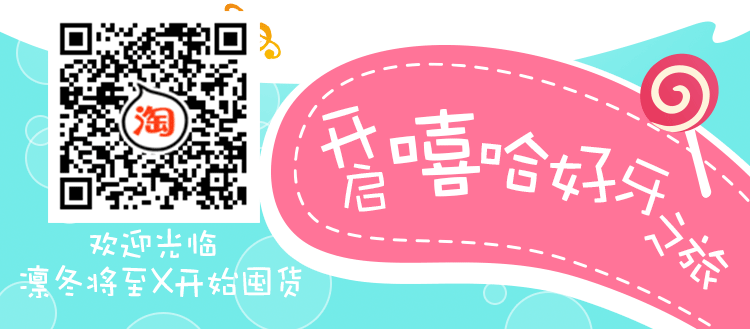
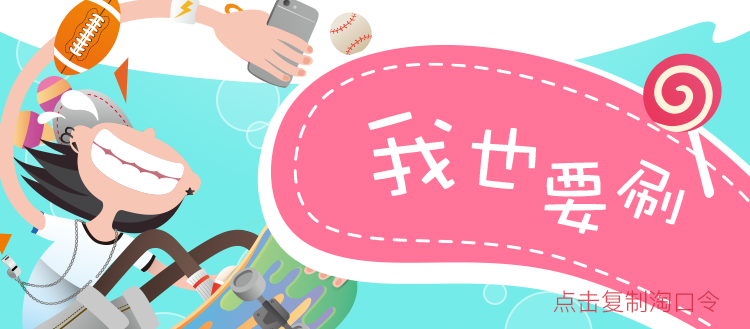
fix: 增加淘口令

diff --git a/src/shuke_activity/lib/clipboard.min.js b/src/shuke_activity/lib/clipboard.min.js
@@ -1,0 +1,7 @@
+/*!
+ * clipboard.js v1.7.1
+ * https://zenorocha.github.io/clipboard.js
+ *
+ * Licensed MIT © Zeno Rocha
+ */
+!function(t){if("object"==typeof exports&&"undefined"!=typeof module)module.exports=t();else if("function"==typeof define&&define.amd)define([],t);else{var e;e="undefined"!=typeof window?window:"undefined"!=typeof global?global:"undefined"!=typeof self?self:this,e.Clipboard=t()}}(function(){var t,e,n;return function t(e,n,o){function i(a,c){if(!n[a]){if(!e[a]){var l="function"==typeof require&&require;if(!c&&l)return l(a,!0);if(r)return r(a,!0);var s=new Error("Cannot find module '"+a+"'");throw s.code="MODULE_NOT_FOUND",s}var u=n[a]={exports:{}};e[a][0].call(u.exports,function(t){var n=e[a][1][t];return i(n||t)},u,u.exports,t,e,n,o)}return n[a].exports}for(var r="function"==typeof require&&require,a=0;a<o.length;a++)i(o[a]);return i}({1:[function(t,e,n){function o(t,e){for(;t&&t.nodeType!==i;){if("function"==typeof t.matches&&t.matches(e))return t;t=t.parentNode}}var i=9;if("undefined"!=typeof Element&&!Element.prototype.matches){var r=Element.prototype;r.matches=r.matchesSelector||r.mozMatchesSelector||r.msMatchesSelector||r.oMatchesSelector||r.webkitMatchesSelector}e.exports=o},{}],2:[function(t,e,n){function o(t,e,n,o,r){var a=i.apply(this,arguments);return t.addEventListener(n,a,r),{destroy:function(){t.removeEventListener(n,a,r)}}}function i(t,e,n,o){return function(n){n.delegateTarget=r(n.target,e),n.delegateTarget&&o.call(t,n)}}var r=t("./closest");e.exports=o},{"./closest":1}],3:[function(t,e,n){n.node=function(t){return void 0!==t&&t instanceof HTMLElement&&1===t.nodeType},n.nodeList=function(t){var e=Object.prototype.toString.call(t);return void 0!==t&&("[object NodeList]"===e||"[object HTMLCollection]"===e)&&"length"in t&&(0===t.length||n.node(t[0]))},n.string=function(t){return"string"==typeof t||t instanceof String},n.fn=function(t){return"[object Function]"===Object.prototype.toString.call(t)}},{}],4:[function(t,e,n){function o(t,e,n){if(!t&&!e&&!n)throw new Error("Missing required arguments");if(!c.string(e))throw new TypeError("Second argument must be a String");if(!c.fn(n))throw new TypeError("Third argument must be a Function");if(c.node(t))return i(t,e,n);if(c.nodeList(t))return r(t,e,n);if(c.string(t))return a(t,e,n);throw new TypeError("First argument must be a String, HTMLElement, HTMLCollection, or NodeList")}function i(t,e,n){return t.addEventListener(e,n),{destroy:function(){t.removeEventListener(e,n)}}}function r(t,e,n){return Array.prototype.forEach.call(t,function(t){t.addEventListener(e,n)}),{destroy:function(){Array.prototype.forEach.call(t,function(t){t.removeEventListener(e,n)})}}}function a(t,e,n){return l(document.body,t,e,n)}var c=t("./is"),l=t("delegate");e.exports=o},{"./is":3,delegate:2}],5:[function(t,e,n){function o(t){var e;if("SELECT"===t.nodeName)t.focus(),e=t.value;else if("INPUT"===t.nodeName||"TEXTAREA"===t.nodeName){var n=t.hasAttribute("readonly");n||t.setAttribute("readonly",""),t.select(),t.setSelectionRange(0,t.value.length),n||t.removeAttribute("readonly"),e=t.value}else{t.hasAttribute("contenteditable")&&t.focus();var o=window.getSelection(),i=document.createRange();i.selectNodeContents(t),o.removeAllRanges(),o.addRange(i),e=o.toString()}return e}e.exports=o},{}],6:[function(t,e,n){function o(){}o.prototype={on:function(t,e,n){var o=this.e||(this.e={});return(o[t]||(o[t]=[])).push({fn:e,ctx:n}),this},once:function(t,e,n){function o(){i.off(t,o),e.apply(n,arguments)}var i=this;return o._=e,this.on(t,o,n)},emit:function(t){var e=[].slice.call(arguments,1),n=((this.e||(this.e={}))[t]||[]).slice(),o=0,i=n.length;for(o;o<i;o++)n[o].fn.apply(n[o].ctx,e);return this},off:function(t,e){var n=this.e||(this.e={}),o=n[t],i=[];if(o&&e)for(var r=0,a=o.length;r<a;r++)o[r].fn!==e&&o[r].fn._!==e&&i.push(o[r]);return i.length?n[t]=i:delete n[t],this}},e.exports=o},{}],7:[function(e,n,o){!function(i,r){if("function"==typeof t&&t.amd)t(["module","select"],r);else if(void 0!==o)r(n,e("select"));else{var a={exports:{}};r(a,i.select),i.clipboardAction=a.exports}}(this,function(t,e){"use strict";function n(t){return t&&t.__esModule?t:{default:t}}function o(t,e){if(!(t instanceof e))throw new TypeError("Cannot call a class as a function")}var i=n(e),r="function"==typeof Symbol&&"symbol"==typeof Symbol.iterator?function(t){return typeof t}:function(t){return t&&"function"==typeof Symbol&&t.constructor===Symbol&&t!==Symbol.prototype?"symbol":typeof t},a=function(){function t(t,e){for(var n=0;n<e.length;n++){var o=e[n];o.enumerable=o.enumerable||!1,o.configurable=!0,"value"in o&&(o.writable=!0),Object.defineProperty(t,o.key,o)}}return function(e,n,o){return n&&t(e.prototype,n),o&&t(e,o),e}}(),c=function(){function t(e){o(this,t),this.resolveOptions(e),this.initSelection()}return a(t,[{key:"resolveOptions",value:function t(){var e=arguments.length>0&&void 0!==arguments[0]?arguments[0]:{};this.action=e.action,this.container=e.container,this.emitter=e.emitter,this.target=e.target,this.text=e.text,this.trigger=e.trigger,this.selectedText=""}},{key:"initSelection",value:function t(){this.text?this.selectFake():this.target&&this.selectTarget()}},{key:"selectFake",value:function t(){var e=this,n="rtl"==document.documentElement.getAttribute("dir");this.removeFake(),this.fakeHandlerCallback=function(){return e.removeFake()},this.fakeHandler=this.container.addEventListener("click",this.fakeHandlerCallback)||!0,this.fakeElem=document.createElement("textarea"),this.fakeElem.style.fontSize="12pt",this.fakeElem.style.border="0",this.fakeElem.style.padding="0",this.fakeElem.style.margin="0",this.fakeElem.style.position="absolute",this.fakeElem.style[n?"right":"left"]="-9999px";var o=window.pageYOffset||document.documentElement.scrollTop;this.fakeElem.style.top=o+"px",this.fakeElem.setAttribute("readonly",""),this.fakeElem.value=this.text,this.container.appendChild(this.fakeElem),this.selectedText=(0,i.default)(this.fakeElem),this.copyText()}},{key:"removeFake",value:function t(){this.fakeHandler&&(this.container.removeEventListener("click",this.fakeHandlerCallback),this.fakeHandler=null,this.fakeHandlerCallback=null),this.fakeElem&&(this.container.removeChild(this.fakeElem),this.fakeElem=null)}},{key:"selectTarget",value:function t(){this.selectedText=(0,i.default)(this.target),this.copyText()}},{key:"copyText",value:function t(){var e=void 0;try{e=document.execCommand(this.action)}catch(t){e=!1}this.handleResult(e)}},{key:"handleResult",value:function t(e){this.emitter.emit(e?"success":"error",{action:this.action,text:this.selectedText,trigger:this.trigger,clearSelection:this.clearSelection.bind(this)})}},{key:"clearSelection",value:function t(){this.trigger&&this.trigger.focus(),window.getSelection().removeAllRanges()}},{key:"destroy",value:function t(){this.removeFake()}},{key:"action",set:function t(){var e=arguments.length>0&&void 0!==arguments[0]?arguments[0]:"copy";if(this._action=e,"copy"!==this._action&&"cut"!==this._action)throw new Error('Invalid "action" value, use either "copy" or "cut"')},get:function t(){return this._action}},{key:"target",set:function t(e){if(void 0!==e){if(!e||"object"!==(void 0===e?"undefined":r(e))||1!==e.nodeType)throw new Error('Invalid "target" value, use a valid Element');if("copy"===this.action&&e.hasAttribute("disabled"))throw new Error('Invalid "target" attribute. Please use "readonly" instead of "disabled" attribute');if("cut"===this.action&&(e.hasAttribute("readonly")||e.hasAttribute("disabled")))throw new Error('Invalid "target" attribute. You can\'t cut text from elements with "readonly" or "disabled" attributes');this._target=e}},get:function t(){return this._target}}]),t}();t.exports=c})},{select:5}],8:[function(e,n,o){!function(i,r){if("function"==typeof t&&t.amd)t(["module","./clipboard-action","tiny-emitter","good-listener"],r);else if(void 0!==o)r(n,e("./clipboard-action"),e("tiny-emitter"),e("good-listener"));else{var a={exports:{}};r(a,i.clipboardAction,i.tinyEmitter,i.goodListener),i.clipboard=a.exports}}(this,function(t,e,n,o){"use strict";function i(t){return t&&t.__esModule?t:{default:t}}function r(t,e){if(!(t instanceof e))throw new TypeError("Cannot call a class as a function")}function a(t,e){if(!t)throw new ReferenceError("this hasn't been initialised - super() hasn't been called");return!e||"object"!=typeof e&&"function"!=typeof e?t:e}function c(t,e){if("function"!=typeof e&&null!==e)throw new TypeError("Super expression must either be null or a function, not "+typeof e);t.prototype=Object.create(e&&e.prototype,{constructor:{value:t,enumerable:!1,writable:!0,configurable:!0}}),e&&(Object.setPrototypeOf?Object.setPrototypeOf(t,e):t.__proto__=e)}function l(t,e){var n="data-clipboard-"+t;if(e.hasAttribute(n))return e.getAttribute(n)}var s=i(e),u=i(n),f=i(o),d="function"==typeof Symbol&&"symbol"==typeof Symbol.iterator?function(t){return typeof t}:function(t){return t&&"function"==typeof Symbol&&t.constructor===Symbol&&t!==Symbol.prototype?"symbol":typeof t},h=function(){function t(t,e){for(var n=0;n<e.length;n++){var o=e[n];o.enumerable=o.enumerable||!1,o.configurable=!0,"value"in o&&(o.writable=!0),Object.defineProperty(t,o.key,o)}}return function(e,n,o){return n&&t(e.prototype,n),o&&t(e,o),e}}(),p=function(t){function e(t,n){r(this,e);var o=a(this,(e.__proto__||Object.getPrototypeOf(e)).call(this));return o.resolveOptions(n),o.listenClick(t),o}return c(e,t),h(e,[{key:"resolveOptions",value:function t(){var e=arguments.length>0&&void 0!==arguments[0]?arguments[0]:{};this.action="function"==typeof e.action?e.action:this.defaultAction,this.target="function"==typeof e.target?e.target:this.defaultTarget,this.text="function"==typeof e.text?e.text:this.defaultText,this.container="object"===d(e.container)?e.container:document.body}},{key:"listenClick",value:function t(e){var n=this;this.listener=(0,f.default)(e,"click",function(t){return n.onClick(t)})}},{key:"onClick",value:function t(e){var n=e.delegateTarget||e.currentTarget;this.clipboardAction&&(this.clipboardAction=null),this.clipboardAction=new s.default({action:this.action(n),target:this.target(n),text:this.text(n),container:this.container,trigger:n,emitter:this})}},{key:"defaultAction",value:function t(e){return l("action",e)}},{key:"defaultTarget",value:function t(e){var n=l("target",e);if(n)return document.querySelector(n)}},{key:"defaultText",value:function t(e){return l("text",e)}},{key:"destroy",value:function t(){this.listener.destroy(),this.clipboardAction&&(this.clipboardAction.destroy(),this.clipboardAction=null)}}],[{key:"isSupported",value:function t(){var e=arguments.length>0&&void 0!==arguments[0]?arguments[0]:["copy","cut"],n="string"==typeof e?[e]:e,o=!!document.queryCommandSupported;return n.forEach(function(t){o=o&&!!document.queryCommandSupported(t)}),o}}]),e}(u.default);t.exports=p})},{"./clipboard-action":7,"good-listener":4,"tiny-emitter":6}]},{},[8])(8)});

diff --git a/src/shuke_activity/index.html b/src/shuke_activity/index.html
@@ -18,23 +18,46 @@
       s.parentNode.insertBefore(hm, s);
     })();
   </script>
-
+  <script src="lib/clipboard.min.js"></script>
 </head>
 <body>
   <div class="content">
-    <img src="./image/1215_01.png" alt="" width="100%" class="header-img">
+    <div>
+      <img src="./image/1215_01.png" alt="" width="100%" class="header-img">
+    </div>
     <div class="video-content">
       <img id="playButton" class="play-button" src="./image/btn.png" alt="play">
       <video id="video" src="http://static.xiawan8.com/activity/shuke.mp4" x5-playsinline="" preload="load" playsinline="" webkit-playsinline="" poster="./image/mp4-bg.jpg" preload="auto">
         您的浏览器不支持 video 标签。
       </video>
     </div>
-    <img class="bottom" src="./image/1215_03.png" />
+    <div class="bottom" id="copy"
+         data-clipboard-action="copy"
+         data-clipboard-text="【凛冬将至X开始囤货】http://m.tb.cn/h.BFhjet点击链接，再选择浏览器打开；或复制这条信息￥8ybP0jIfSeY￥后打开手淘"
+    >
+      <div class="handle">
+        <img src="./image/hand.png" />
+      </div>
+      <img class="bottom-bg" src="./image/1215_03.png" />
+    </div>
+  </div>
+  <div class="dialog" id="dialog">
+    <div class="dialog-bg"></div>
+    <div class="copy-success">
+      <p>您已复制淘口令</p>
+      <p>请打开淘宝APP</p>
+      <div class="close" id="close">
+        <img src="image/close.png" />
+      </div>
+    </div>
   </div>
 </body>
 <script>
   var btn = document.getElementById('playButton')
   var myVideo = document.getElementById('video')
+  var copy = document.getElementById('copy')
+  var dialog = document.getElementById('dialog')
+  var close = document.getElementById('close')
 
   // 点击播放
   btn.addEventListener("click", function() {
@@ -64,7 +87,29 @@
     } else {
       myVideo.pause()
     }
+  });
+
+  // 复制淘口令事件
+  copy.addEventListener('click', function() {
+    var clipboard = new Clipboard('#copy');
+    clipboard.on('success', function(e) {
+      console.info('Action:', e.action);
+      console.info('Text:', e.text);
+      console.info('Trigger:', e.trigger);
+      e.clearSelection();
+      dialog.style.display = 'block'
+    });
+    clipboard.on('error', function(e) {
+      console.error('Action:', e.action);
+      console.error('Trigger:', e.trigger);
+    });
+  });
+
+  // 复制成功 弹窗点击关闭按钮 关闭弹窗
+  close.addEventListener('click', function() {
+    dialog.style.display = 'none'
   })
+
 </script>
 
 <script type="text/javascript" src="http://static.xiawan8.com/xiawan/SDK/jsweixin.js"></script>
@@ -77,5 +122,4 @@
     link: location.href
   });
 </script>
-
 </html>

diff --git a/src/shuke_activity/less/index.less b/src/shuke_activity/less/index.less
@@ -1,5 +1,28 @@
 @rem:1rem/32;
 
+@keyframes clickAnimation {
+  from {height: @rem*80; width: @rem*80; top: 68%; left: 62%;}
+  to {height: @rem*120; width: @rem*120; top: 63%; left: 58%;}
+}
+@-webkit-keyframes clickAnimation {
+  from {height: @rem*80; width: @rem*80; top: 68%; left: 62%;}
+  to {height: @rem*120; width: @rem*120; top: 63%; left: 58%;}
+}
+@-moz-keyframes clickAnimation {
+  from {height: @rem*80; width: @rem*80; top: 68%; left: 62%;}
+  to {height: @rem*120; width: @rem*120; top: 63%; left: 58%;}
+}
+@-ms-keyframes clickAnimation {
+  from {height: @rem*80; width: @rem*80; top: 68%; left: 62%;}
+  to {height: @rem*120; width: @rem*120; top: 63%; left: 58%;}
+}
+@-o-keyframes clickAnimation {
+  from {height: @rem*80; width: @rem*80; top: 68%; left: 62%;}
+  to {height: @rem*120; width: @rem*120; top: 63%; left: 58%;}
+}
+
+
+
 *{
   margin: 0;
   padding: 0;
@@ -45,6 +68,85 @@ body{
 
 .bottom{
   width: 100%;
-  display: block;
+  position: relative;
+  .bottom-bg{
+    width: 100%;
+    display: block;
+    margin: 0;
+    padding: 0;
+    border: none;
+  }
+  .handle{
+    position: absolute;
+    height: @rem*110;
+    width: @rem*110;
+    top: 65%;
+    left: 58%;
+    z-index: 99;
+    -webkit-animation: clickAnimation 1s ease infinite alternate;
+    -o-animation: clickAnimation 1s ease infinite alternate;
+    animation: clickAnimation 1s ease infinite alternate;
+    img{
+      display: block;
+      height: 100%;
+      width: 100%;
+    }
+  }
+}
+
+.dialog{
+  display: none;
+  position: fixed;
+  top: 0;
+  left: 0;
+  z-index: 99;
+  height: 100%;
+  width: 100%;
+  .dialog-bg{
+    height: 100%;
+    width: 100%;
+    position: absolute;
+    top: 0;
+    left: 0;
+    background: #000;
+    opacity: .5;
+    z-index: 99;
+  }
+  .copy-success{
+    height: @rem*240;
+    width: @rem*420;
+    background: rgb(52, 189, 239);
+    border-radius: @rem*8;
+    position: absolute;
+    top: 50%;
+    left: 50%;
+    transform: translate(-50%,-50%);
+    z-index: 999;
+    font-size: @rem*32;
+    color: #fff;
+    text-align: center;
+    p{
+      line-height: @rem*30;
+      margin-top: @rem*30;
+      letter-spacing: 10px;
+    }
+    p:first-child{
+      margin-top: @rem*70;
+    }
+    .close{
+      height: @rem*50;
+      width: @rem*50;
+      position: absolute;
+      z-index: 999;
+      top: 110%;
+      left: 44%;
+      image{
+        display: block;
+        height: 100%;
+        width: 100%;
+        border: none;
+      }
+    }
+  }
 }
 

diff --git a/src/shuke_activity/styles/index.css b/src/shuke_activity/styles/index.css
@@ -1,3 +1,31 @@
+@keyframes clickAnimation {
+  from {
+    height: 2.5rem;
+    width: 2.5rem;
+    top: 68%;
+    left: 62%;
+  }
+  to {
+    height: 3.75rem;
+    width: 3.75rem;
+    top: 63%;
+    left: 58%;
+  }
+}
+@-webkit-keyframes clickAnimation {
+  from {
+    height: 2.5rem;
+    width: 2.5rem;
+    top: 68%;
+    left: 62%;
+  }
+  to {
+    height: 3.75rem;
+    width: 3.75rem;
+    top: 63%;
+    left: 58%;
+  }
+}
 * {
   margin: 0;
   padding: 0;
@@ -28,8 +56,6 @@ body {
 #video {
   width: 21.625rem;
   height: 12.1875rem;
-  display: block;
-  margin: 0 auto;
 }
 .play-button {
   position: absolute;
@@ -47,5 +73,83 @@ body {
 }
 .bottom {
   width: 100%;
+  position: relative;
+}
+.bottom .bottom-bg {
+  width: 100%;
   display: block;
+  margin: 0;
+  padding: 0;
+  border: none;
+}
+.bottom .handle {
+  position: absolute;
+  height: 3.4375rem;
+  width: 3.4375rem;
+  top: 65%;
+  left: 58%;
+  z-index: 99;
+  -webkit-animation: clickAnimation 1s ease infinite alternate;
+  animation: clickAnimation 1s ease infinite alternate;
+}
+.bottom .handle img {
+  display: block;
+  height: 100%;
+  width: 100%;
+}
+.dialog {
+  display: none;
+  position: fixed;
+  top: 0;
+  left: 0;
+  z-index: 99;
+  height: 100%;
+  width: 100%;
+}
+.dialog .dialog-bg {
+  height: 100%;
+  width: 100%;
+  position: absolute;
+  top: 0;
+  left: 0;
+  background: #000;
+  opacity: .5;
+  z-index: 99;
+}
+.dialog .copy-success {
+  height: 7.5rem;
+  width: 13.125rem;
+  background: #34bdef;
+  border-radius: 0.25rem;
+  position: absolute;
+  top: 50%;
+  left: 50%;
+  -webkit-transform: translate(-50%, -50%);
+          transform: translate(-50%, -50%);
+  z-index: 999;
+  font-size: 1rem;
+  color: #fff;
+  text-align: center;
+}
+.dialog .copy-success p {
+  line-height: 0.9375rem;
+  margin-top: 0.9375rem;
+  letter-spacing: 10px;
+}
+.dialog .copy-success p:first-child {
+  margin-top: 2.1875rem;
+}
+.dialog .copy-success .close {
+  height: 1.5625rem;
+  width: 1.5625rem;
+  position: absolute;
+  z-index: 999;
+  top: 110%;
+  left: 44%;
+}
+.dialog .copy-success .close image {
+  display: block;
+  height: 100%;
+  width: 100%;
+  border: none;
 }
